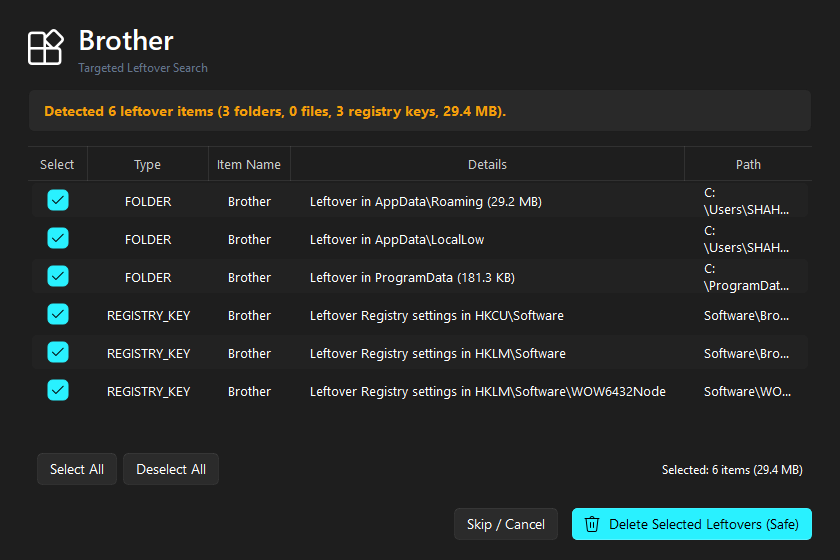
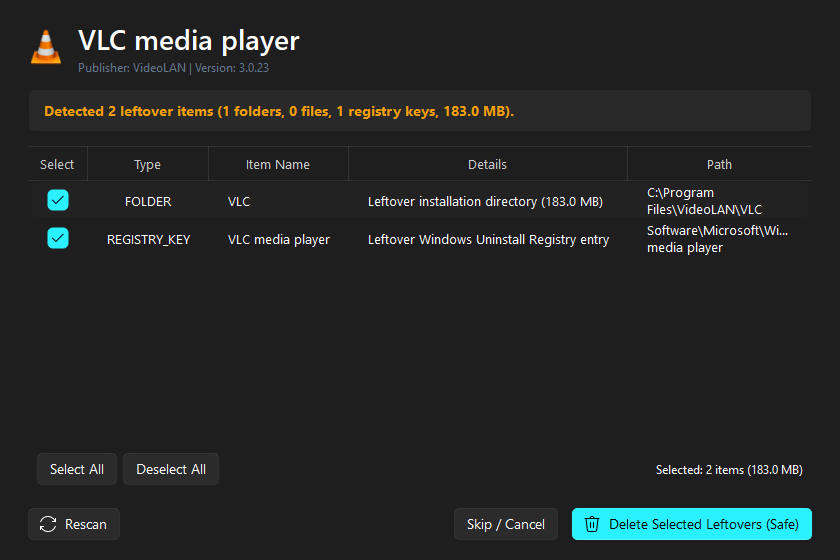
fix(uninstaller): make leftover scan manual with Scan/Next button
- Prevent premature auto-scanning on early process exits (e.g. NSIS, Inno Setup, MSI helper wrappers).
- Open LeftoverReviewDialog immediately upon clicking Uninstall with instructions and table layout.
- Add prominent 'Scan for Leftovers' (and 'Next: Scan for Leftovers') PrimaryPushButton to give users explicit control over when to trigger leftover detection.
- Add 'Relaunch Uninstaller' and 'Rescan' options for complete uninstallation control.

diff --git a/ui_fluent/uninstaller_interface.py b/ui_fluent/uninstaller_interface.py
@@ -206,7 +206,7 @@ class LeftoverReviewDialog(QDialog):
         header.setSectionResizeMode(3, QHeaderView.ResizeMode.ResizeToContents)
         header.setSectionResizeMode(4, QHeaderView.ResizeMode.Stretch)
 
-        self.table.setVisible(False)
+        self.table.setVisible(True)
         self.layout.addWidget(self.table, 1)
 
         # Bulk selection toolbar (visible on Stage 3)
@@ -231,11 +231,29 @@ class LeftoverReviewDialog(QDialog):
 
         # Bottom Command Bar
         self.bottom_bar = QHBoxLayout()
+
+        self.btn_relaunch = PushButton("Relaunch Uninstaller", self)
+        self.btn_relaunch.setIcon(FIF.SYNC)
+        self.btn_relaunch.clicked.connect(self._relaunch_uninstaller)
+        self.btn_relaunch.setVisible(False)
+        self.bottom_bar.addWidget(self.btn_relaunch)
+
+        self.btn_rescan = PushButton("Rescan", self)
+        self.btn_rescan.setIcon(FIF.SYNC)
+        self.btn_rescan.clicked.connect(self._start_scan_stage)
+        self.btn_rescan.setVisible(False)
+        self.bottom_bar.addWidget(self.btn_rescan)
+
         self.bottom_bar.addStretch(1)
 
-        self.btn_cancel = PushButton("Close", self)
+        self.btn_cancel = PushButton("Cancel", self)
         self.btn_cancel.clicked.connect(self.close)
         self.bottom_bar.addWidget(self.btn_cancel)
+
+        self.btn_scan = PrimaryPushButton("Scan for Leftovers", self)
+        self.btn_scan.setIcon(FIF.SEARCH)
+        self.btn_scan.clicked.connect(self._start_scan_stage)
+        self.bottom_bar.addWidget(self.btn_scan)
 
         self.btn_clean = PrimaryPushButton("Delete Selected Leftovers (Safe)", self)
         self.btn_clean.setIcon(FIF.DELETE)
@@ -245,12 +263,37 @@ class LeftoverReviewDialog(QDialog):
 
         self.layout.addLayout(self.bottom_bar)
 
+    def _show_placeholder_row(self, message: str):
+        """Displays a full-width centered guidance row inside the table."""
+        self.table.clearSpans()
+        self.table.clearContents()
+        self.table.setRowCount(1)
+        item = QTableWidgetItem(message)
+        item.setTextAlignment(Qt.AlignmentFlag.AlignCenter)
+        item.setForeground(QColor("#94A3B8"))
+        item.setFlags(Qt.ItemFlag.NoItemFlags)
+        self.table.setItem(0, 0, item)
+        self.table.setSpan(0, 0, 1, 5)
+
     # -------------------------------------------------------------
-    # Stage 1: Run Native Uninstaller
+    # Stage 1: Run Native Uninstaller (Manual transition to scan)
     # -------------------------------------------------------------
     def _start_uninstall_stage(self):
-        self.lbl_status.setText("Running official uninstaller... Please complete the uninstaller dialog on your screen if prompted.")
-        self.progress_bar.setVisible(True)
+        self.lbl_status.setText(
+            "Official built-in uninstaller has been launched. Please complete the uninstallation wizard on your screen.\n"
+            "When finished, click 'Scan for Leftovers' below to search for remaining files and registry keys."
+        )
+        self.lbl_status.setStyleSheet("color: #38BDF8; font-weight: 500;")
+        self.progress_bar.setVisible(False)
+        self.btn_relaunch.setVisible(True)
+        self.btn_scan.setVisible(True)
+        self.btn_scan.setEnabled(True)
+        self.btn_scan.setText("Scan for Leftovers")
+        self.btn_scan.setIcon(FIF.SEARCH)
+        self.btn_clean.setVisible(False)
+        self.btn_rescan.setVisible(False)
+        self.btn_cancel.setText("Cancel")
+        self._show_placeholder_row("Official uninstaller is running... Complete the uninstallation on your screen, then click 'Scan for Leftovers' below.")
 
         self.uninstall_worker = UninstallWorker(self.app_manager, self.app, self)
         self.uninstall_worker.finished.connect(self._on_uninstaller_finished)
@@ -258,26 +301,43 @@ class LeftoverReviewDialog(QDialog):
         self.uninstall_worker.start()
 
     def _on_uninstaller_finished(self, exit_code: int):
-        self._start_scan_stage()
+        self.lbl_status.setText(
+            "✓ Official uninstaller process completed! Click 'Scan for Leftovers' below to search for residual files and registry entries."
+        )
+        self.lbl_status.setStyleSheet("color: #4ADE80; font-weight: bold;")
+        self.btn_scan.setText("Next: Scan for Leftovers")
+        self.btn_scan.setFocus()
+        self._show_placeholder_row("Official uninstaller finished. Click 'Next: Scan for Leftovers' below to search for residual files.")
 
     def _on_uninstaller_error(self, error_msg: str):
-        InfoBar.warning(
-            title="Uninstaller Warning",
-            content=f"Could not launch standard uninstaller: {error_msg}. Proceeding directly to leftover scan.",
-            orient=Qt.Orientation.Horizontal,
-            isClosable=True,
-            position=InfoBarPosition.TOP,
-            duration=5000,
-            parent=self
+        self.lbl_status.setText(
+            f"Uninstaller notification: {error_msg}. Click 'Scan for Leftovers' below to clean up remnants."
         )
-        self._start_scan_stage()
+        self.lbl_status.setStyleSheet("color: #F59E0B; font-weight: bold;")
+        self.btn_scan.setText("Scan for Leftovers")
+        self._show_placeholder_row("Click 'Scan for Leftovers' below to search for residual files.")
+
+    def _relaunch_uninstaller(self):
+        if self.app:
+            try:
+                self.app_manager.run_uninstaller(self.app)
+                self.lbl_status.setText("Official uninstaller launched again. Please complete it on your screen.")
+                self.lbl_status.setStyleSheet("color: #38BDF8;")
+            except Exception as e:
+                self.lbl_status.setText(f"Could not relaunch uninstaller: {e}")
 
     # -------------------------------------------------------------
-    # Stage 2: Deep Leftover Scan
+    # Stage 2: Deep Leftover Scan (Manual trigger)
     # -------------------------------------------------------------
     def _start_scan_stage(self):
         self.lbl_status.setText("Scanning for leftover files, folders, AppData, and registry entries...")
+        self.lbl_status.setStyleSheet("color: #94A3B8;")
         self.progress_bar.setVisible(True)
+        self.btn_relaunch.setVisible(False)
+        self.btn_rescan.setVisible(False)
+        self.btn_scan.setEnabled(False)
+        self.btn_scan.setText("Scanning...")
+        self._show_placeholder_row("Scanning for residual files, AppData, and registry entries...")
 
         pub = self.app.publisher if self.app else ""
         loc = self.app.install_location if self.app else ""
@@ -293,12 +353,17 @@ class LeftoverReviewDialog(QDialog):
 
     def _on_scan_finished(self, items: List[LeftoverItem]):
         self.progress_bar.setVisible(False)
+        self.btn_scan.setVisible(False)
         self.leftover_items = items
 
         if not items:
             self.lbl_status.setText("✓ No leftover files or registry keys detected! Clean uninstallation.")
             self.lbl_status.setStyleSheet("color: #4ADE80; font-weight: bold;")
             self.btn_cancel.setText("Done")
+            self.btn_clean.setVisible(False)
+            self.btn_rescan.setVisible(True)
+            self.bulk_container.setVisible(False)
+            self._show_placeholder_row("✓ No leftover files, folders, or registry keys detected.")
             return
 
         # Stage 3: Present leftovers
@@ -311,9 +376,11 @@ class LeftoverReviewDialog(QDialog):
         self.lbl_status.setText(summary_msg)
         self.lbl_status.setStyleSheet("color: #F59E0B; font-weight: bold;")
 
+        self.table.clearSpans()
         self.table.setVisible(True)
         self.bulk_container.setVisible(True)
         self.btn_clean.setVisible(True)
+        self.btn_rescan.setVisible(True)
         self.btn_cancel.setText("Skip / Cancel")
 
         self._populate_table()
@@ -321,13 +388,19 @@ class LeftoverReviewDialog(QDialog):
 
     def _on_scan_error(self, err: str):
         self.progress_bar.setVisible(False)
+        self.btn_scan.setEnabled(True)
+        self.btn_scan.setText("Retry Scan")
+        self.btn_rescan.setVisible(True)
         self.lbl_status.setText(f"Scan error: {err}")
         self.lbl_status.setStyleSheet("color: #F87171;")
+        self._show_placeholder_row(f"Scan error: {err}")
 
     # -------------------------------------------------------------
     # Stage 3: Populate and Manage Leftovers Table
     # -------------------------------------------------------------
     def _populate_table(self):
+        self.table.clearSpans()
+        self.table.clearContents()
         self.table.setRowCount(len(self.leftover_items))
         for row, item in enumerate(self.leftover_items):
             # Checkbox
